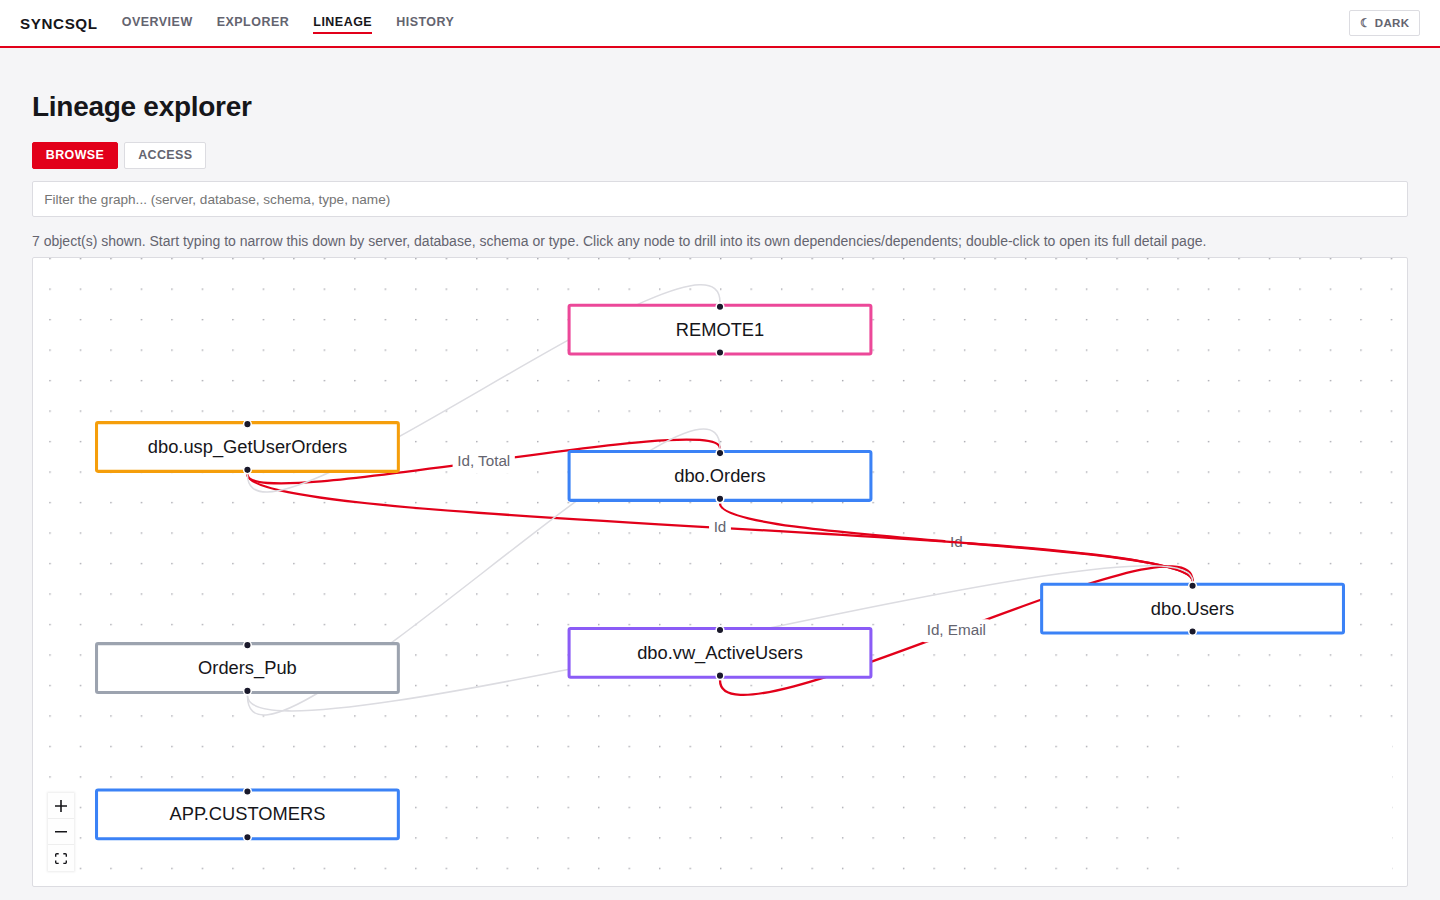
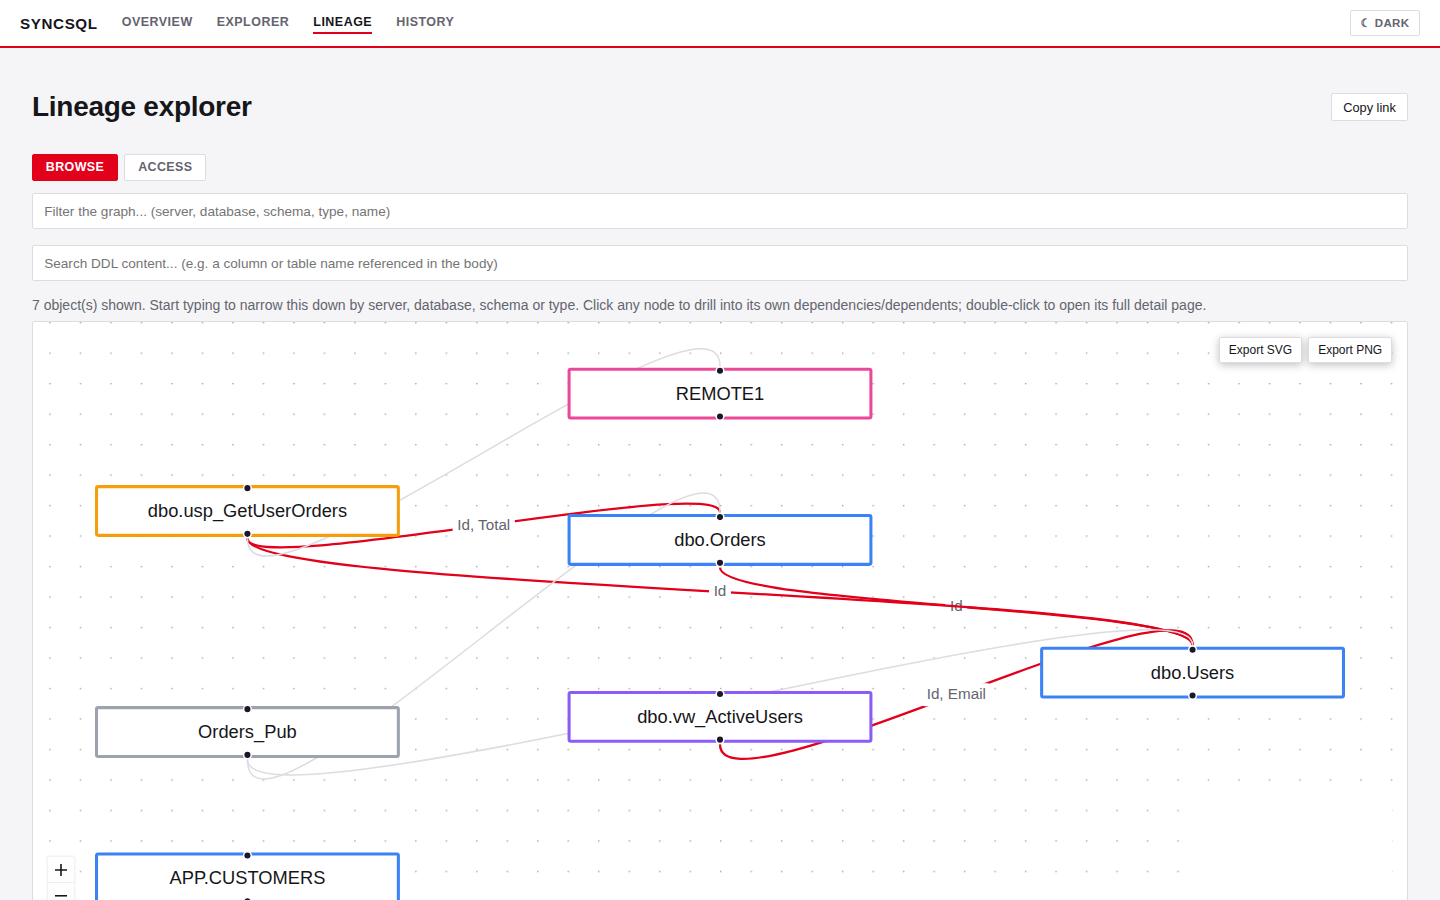
Add screenshots for the new Explorer/Overview/Lineage/Object detail features
Regenerated the existing Overview/Explorer/Lineage/Object detail/dark-mode
screenshots against the merged UI, and added four new ones demonstrating the
features added on this branch: Overview's metrics-anomalies and
orphaned-references panels, Explorer's DDL content search box, and Object
detail's orphaned-reference warning and side-by-side revision diff. The
Lineage screenshot's caption now also covers Export SVG/PNG and Copy link,
both visible in that same capture.

diff --git a/README.md b/README.md
@@ -20,14 +20,29 @@ tables, a change-frequency heatmap, and objects that tend to change together.
 
 ![Overview page](docs/screenshots/overview.png)
 
+**Metrics anomalies & orphaned references** — further down the Overview page:
+tables whose latest metrics snapshot swung sharply (a row-count jump or an
+index fragmentation spike), and references that don't resolve to anything in
+the catalog's scope, usually a renamed or dropped target.
+
+![Overview metrics anomalies and orphaned references panels](docs/screenshots/overview-anomalies.png)
+
 **Explorer** — a sortable, filterable table of every extracted object, with a
 GitLab-style filter bar (attribute, operator, value).
 
 ![Explorer page](docs/screenshots/explorer.png)
 
+**DDL content search** — a separate search-as-you-type box live-filters
+across every object's full DDL body, not just its metadata — e.g. "which
+procs reference this column".
+
+![Explorer DDL content search](docs/screenshots/explorer-search.png)
+
 **Lineage graph** — an interactive dependency graph with drill-down, built
 from a real SQL parser per engine, not text matching. Edges carrying a known
-column reference are highlighted and labeled.
+column reference are highlighted and labeled. The current filter/focus/hop
+state stays live in the URL (**Copy link** for a shareable view), and
+**Export SVG**/**Export PNG** render the visible graph to a standalone image.
 
 ![Lineage graph](docs/screenshots/lineage.png)
 
@@ -35,6 +50,16 @@ column reference are highlighted and labeled.
 indexes, and a metrics panel of volume/index/optimizer-statistics trends.
 
 ![Object detail page](docs/screenshots/object-detail.png)
+
+**Orphaned reference warning** — flagged directly on the referencing
+object's own page, in addition to the Overview panel above.
+
+![Object detail orphaned reference warning](docs/screenshots/object-orphaned.png)
+
+**Side-by-side revision diff** — compare mode in the change-history list
+picks any two revisions (including the current definition) for a diff.
+
+![Object detail side-by-side diff](docs/screenshots/object-diff.png)
 
 **Light and dark themes** — a toggle in the top right, persisted per browser.
 
